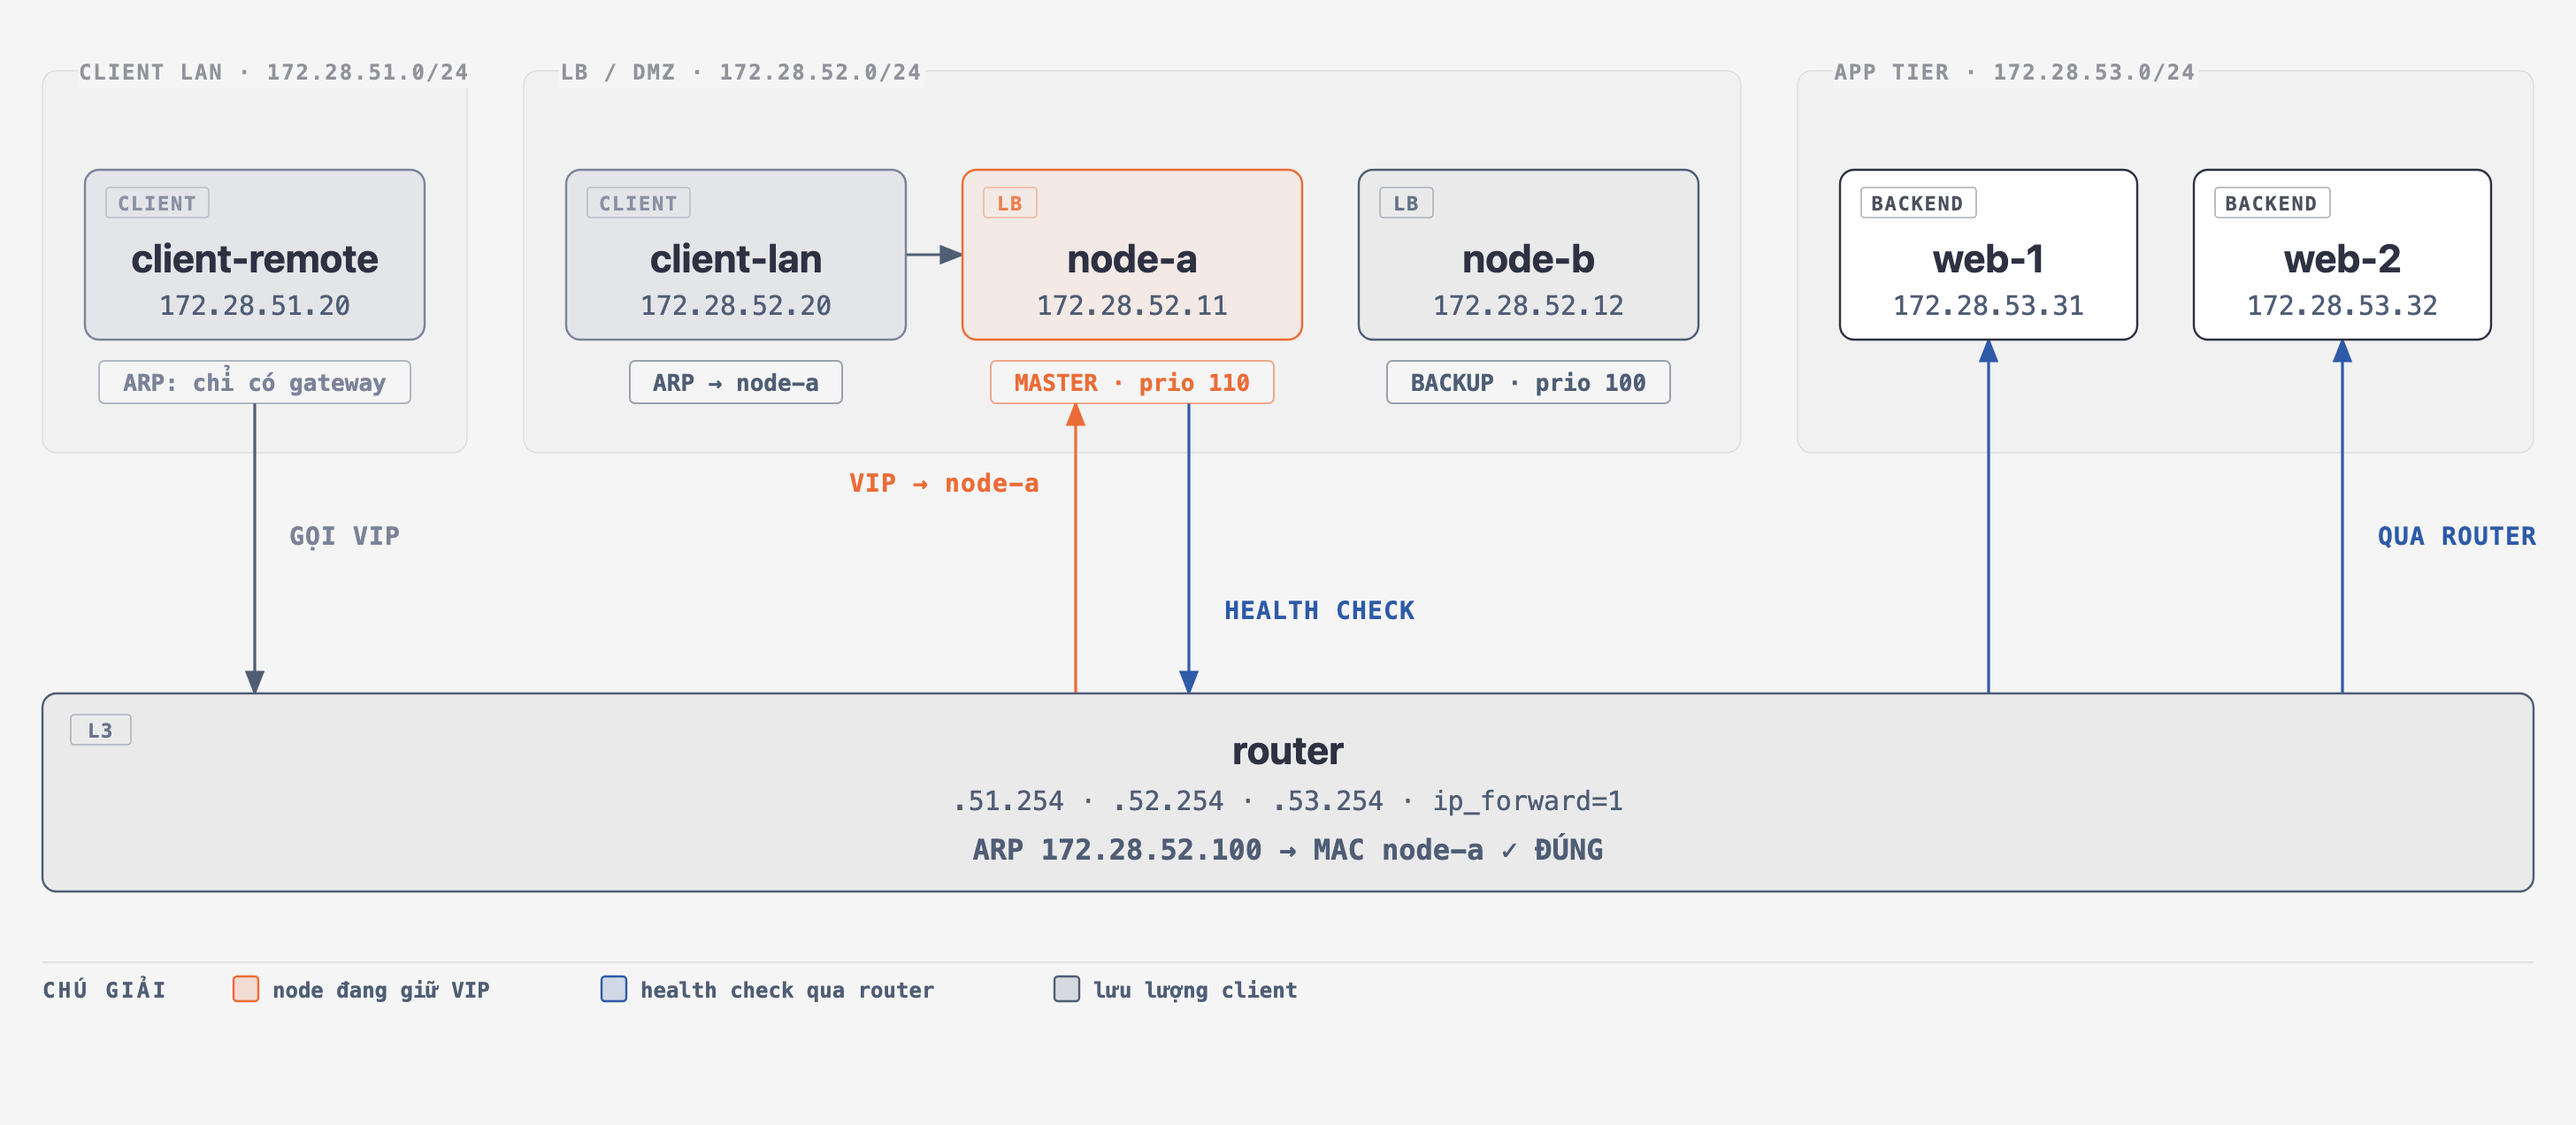
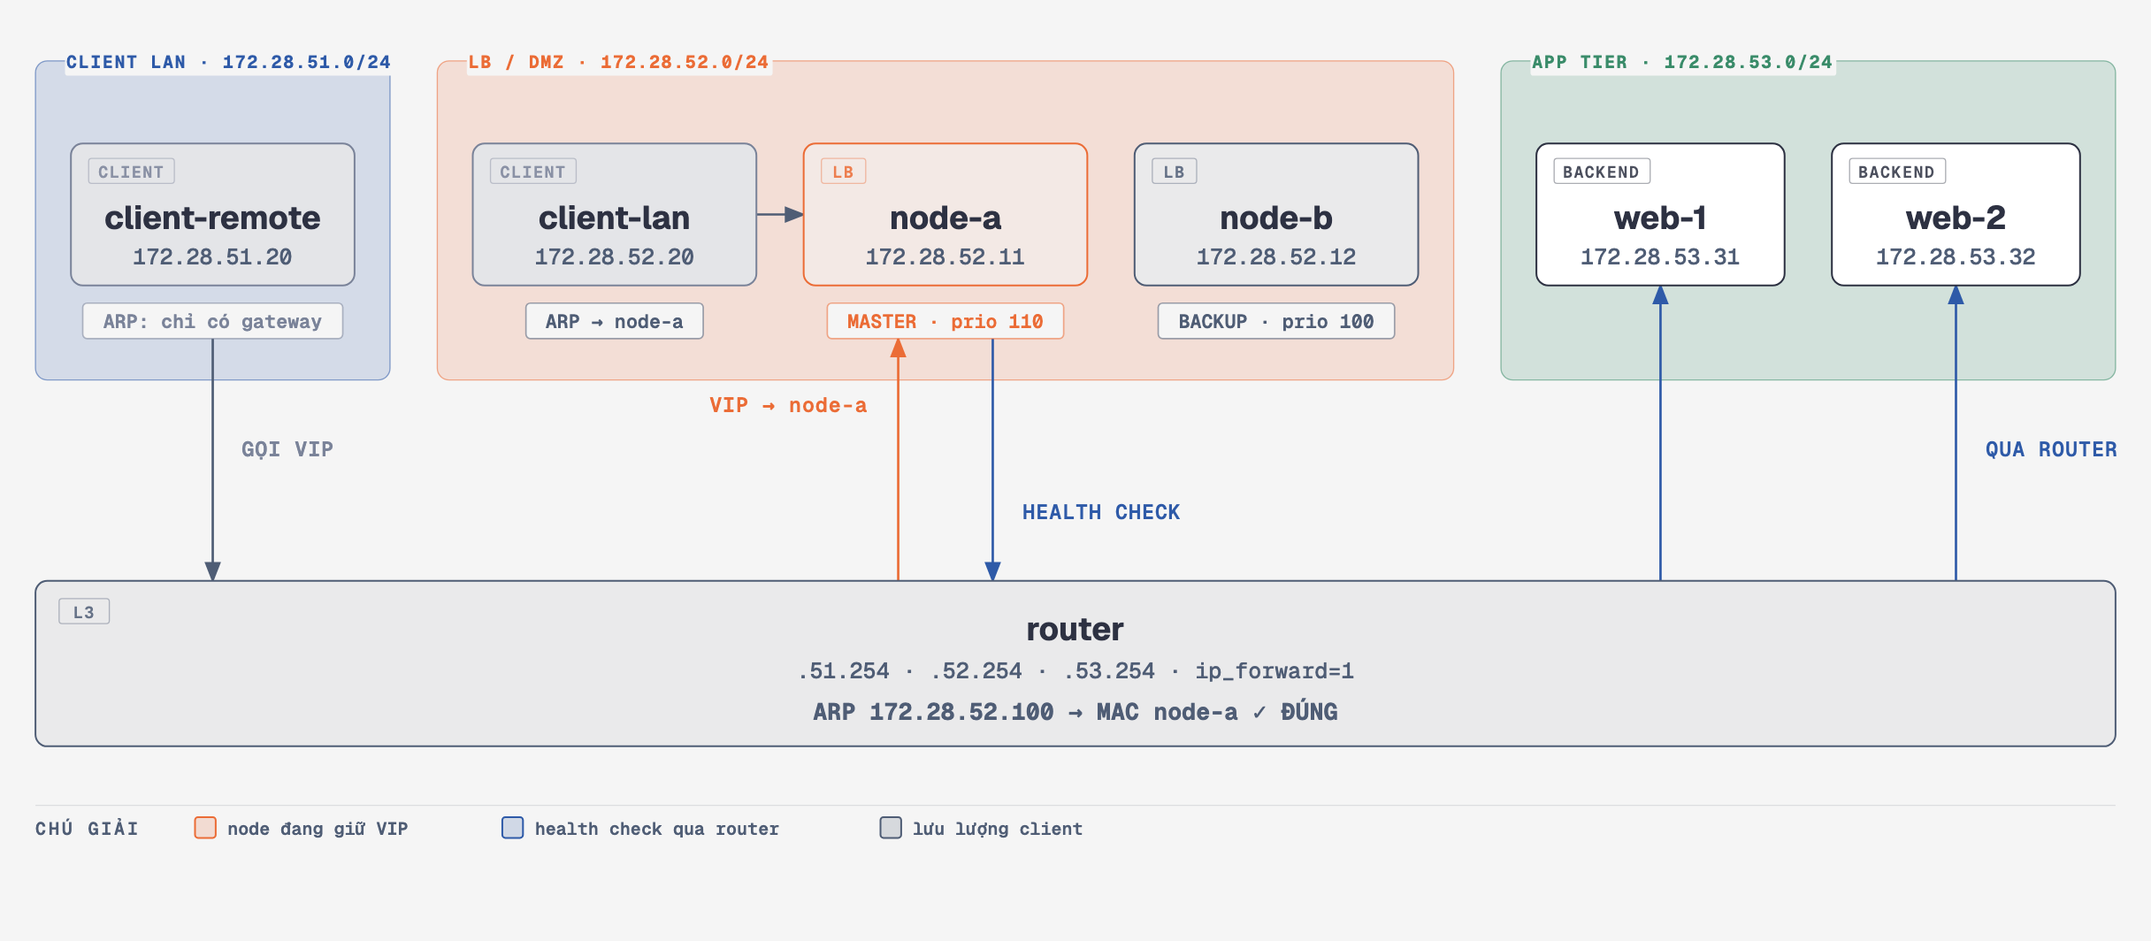
docs(tap-05): trim title, drop ASCII diagram and dead kich-ban.md links
Shorten the case title, remove the redundant ASCII-art topology in favor
of the (now recolored) HTML diagram screenshot, and drop links to
kich-ban.md now that it's local-only (gitignored).

diff --git a/network-bat-benh/tap-05-vip-failover-garp/README.md b/network-bat-benh/tap-05-vip-failover-garp/README.md
@@ -1,4 +1,4 @@
-# 🩺 Ca Bệnh 05: Failover HA Thành Công Nhưng Dịch Vụ Vẫn Chết — Thủ Phạm Là Bảng ARP
+# 🩺 Ca Bệnh 05: Failover HA Thành Công Nhưng Dịch Vụ Vẫn Chết
 
 > **Hồ sơ ca bệnh:**
 > * **Hiện tượng:** Cụm HA vừa failover. Node MASTER chết, node BACKUP đã lên, đã cầm VIP, `HAProxy` vẫn chạy, backend vẫn khoẻ, cấu hình đúng 100%. **Nhưng client vẫn không truy cập được dịch vụ.**
@@ -13,31 +13,12 @@
 > | **B. Ổ bệnh Tầng 2** | 3–7 | blackhole `curl (28)`; tự khỏi **32 giây** trên Linux, **4 tiếng** trên Cisco |
 > | **C. Cụm HA tự đánh nhau** | 8–10 | 2 MAC cùng đáp 1 IP; `unicast_peer` cứu khi switch nuốt multicast; `preempt` gây **2 lần** mất phiên thay vì 1 |
 > | **D. Chết vì lý do KHÁC L2** | 11–13 | HTTP **503** (khác hẳn blackhole); `use_vmac` khiến MAC **không bao giờ đổi** |
->
-> 👉 Chi tiết từng kịch bản: [**kich-ban.md**](./kich-ban.md)
 
 > 📚 **Điều kiện tiên quyết:** Nắm được `ping`, `curl`, `ip neigh`, `ip route`, `tcpdump` ở mức cơ bản (xem series **Debug Mạng A-Z**). Đây là ca bệnh **Tầng 2** đầu tiên của series — mọi thứ ở L3/L4 đều đúng tuyệt đối, lỗi nằm dưới sâu hơn.
 
 ---
 
 ## 🔬 Sơ đồ Kiến trúc Lab
-
-```text
-  CLIENT LAN                 LB / DMZ                      APP TIER
-  172.28.51.0/24             172.28.52.0/24                172.28.53.0/24
-                             VIP 172.28.52.100
-
- +------------------+     +------------------------+     +------------------+
- | client-remote    |     | node-a .11  MASTER 110 |     | web-1  .53.31    |
- |     .51.20       |     | node-b .12  BACKUP 100 |     | web-2  .53.32    |
- |                  |     | HAProxy + Keepalived   |     | nginx            |
- |                  |     |                        |     |                  |
- |                  |     | client-lan  .52.20     |     |                  |
- +--------+---------+     +-----------+------------+     +--------+---------+
-          |                           |                           |
-          +---[ router  .51.254  |  .52.254  |  .53.254 ]----------+
-                          ip_forward = 1
-```
 
 * `client-remote` là **nạn nhân thật**: khác subnet với VIP nên nó không bao giờ ARP hỏi VIP.
 * `client-lan` là **đối chứng**: cùng subnet với VIP nên nó CÓ bảng ARP cho VIP. Cùng một sự cố, hai máy này khỏi ở hai thời điểm khác nhau.
@@ -349,9 +330,6 @@ Trạng thái chuẩn phải như thế này:
 > cờ `USE_UNICAST` của KB9, ARP kiểu Cisco của KB5, HAProxy bị giết ở KB11,
 > VIP gán tay ở KB3, và **route tĩnh bay mất sau mỗi lần container restart**)
 > rồi dựng lại trạng thái chuẩn.
-
-👉 **Hướng dẫn chi tiết từng kịch bản — bối cảnh, output thật, cách đọc kết quả:
-[kich-ban.md](./kich-ban.md)**
 
 ---
 
